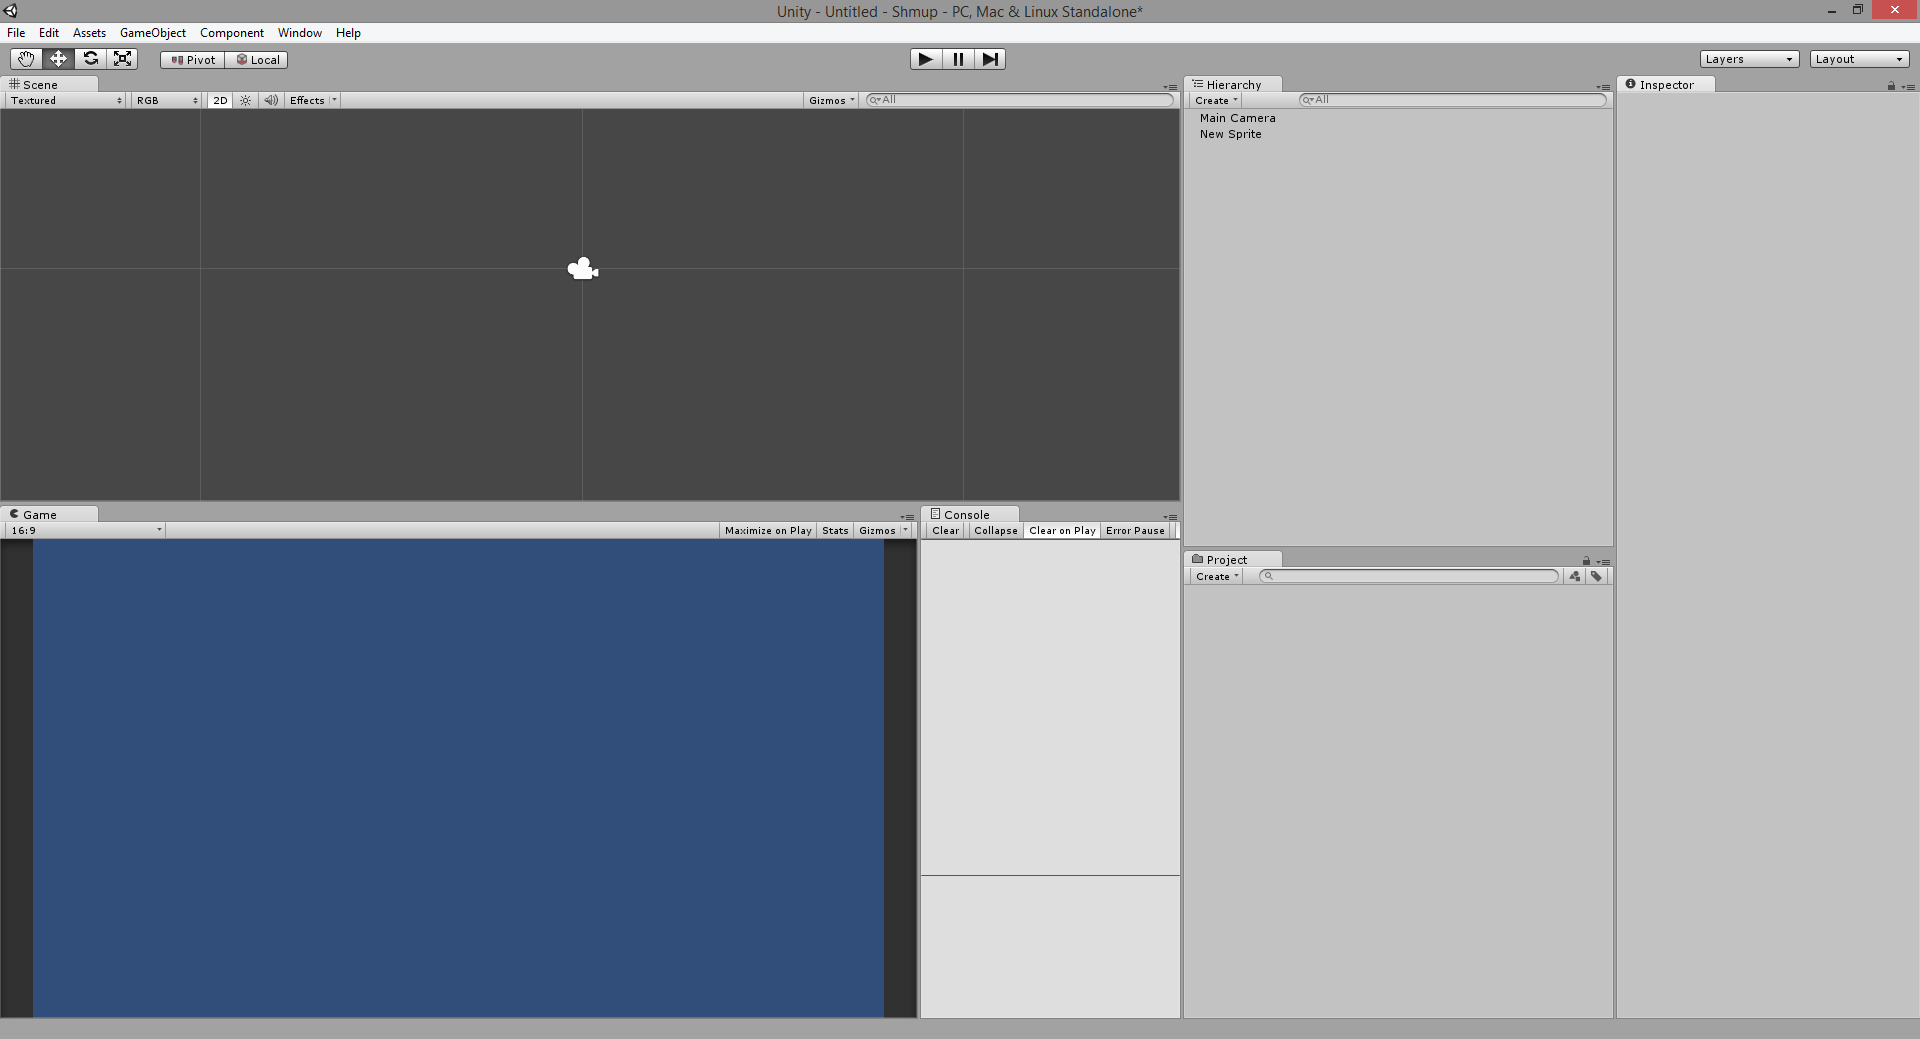
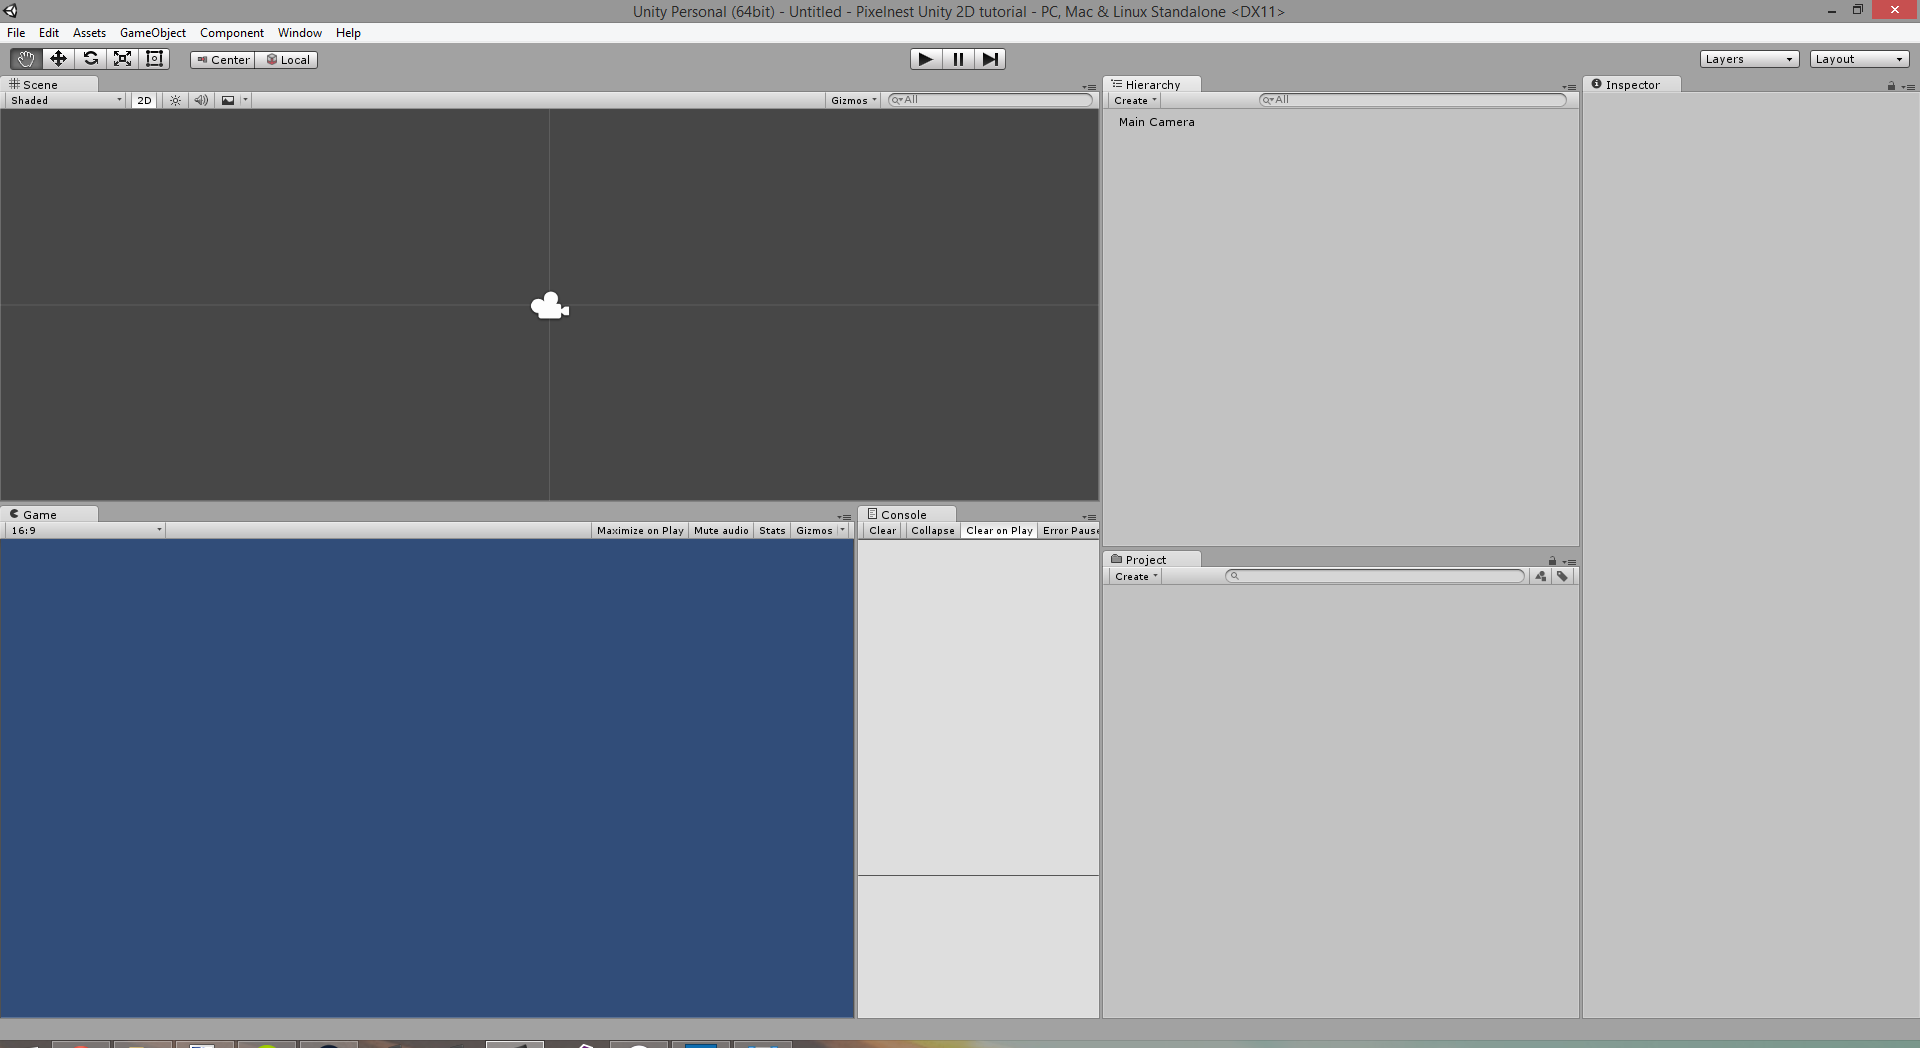
Tutorial: Chapter 1 Unity 5 migration

Changed region(s): [[0.0, 0.0, 1.0, 1.0], [0.0, 0.0308, 0.1875, 0.1232], [0.2812, 0.2464, 0.3125, 0.308]]

diff --git a/tutorials/2d-game-unity/install-and-scene/index.md b/tutorials/2d-game-unity/install-and-scene/index.md
@@ -37,14 +37,14 @@ Unity is bundled with MonoDevelop (4.0.1 as of today) to edit code.
 
 If you are on Windows you can (and should) use an alternative:
 
-* [Visual Studio 2013 Desktop (C#)][vs_download_link] for Windows
+* [Visual Studio Community 2013][vs_download_link] for Windows
 
 Likewise: download and install, it's simple as everything is bundled, though it might take a little time. Then, in the Unity preferences, change your default editor to Visual Studio.
 
 [ ![Change the preferences][unity_prefs_vs_url] ][unity_prefs_vs_url]
 
 <md-warning>
-_Good to know_: It's not possible to use the Visual Studio 2013 Express debugger with Unity. You need to have a _Pro_ version of Visual Studio AND to buy the plugin [UnityVS][unityvs_link]. With the Express version, you will have a better code editor, but the lack of a debugger may be critical.
+_Good to know_: It's possible to use the Visual Studio 2013 debugger with Unity. You need to download and install the [UnityVS][unityvs_link] plugin. Simply follow their [documentation][unityvs_doc] to add the UnityVS to your Unity project (you need to do this for every project).
 </md-warning>
 
 ### Mac OS X
@@ -71,15 +71,17 @@ Here are some other resources that we find interesting and that should complete 
 
 # The first scene
 
+Let's start Unity. First thing you will, after a short splashscreen, is the project manager dialog.
+
 ## Create a new project
 
-Go to file, then create a new project. Do not check any standard package for now. You can re-import them later if you want, but at first it will just confuse you.
+Create a new project with the name and location you wish.
 
 [ ![Create a new Unity project][unity_create_project] ][unity_create_project]
 
-Select the **2D** settings. Like before, you can change this flag in the project settings later.
+Select the **2D** settings. You can change this flag in the project settings later.
 
-_Do not worry about the name_. The product name is defined in the options and changing the whole project name only consists in renaming the folder.
+_Do not worry about the name_. The final product name is defined in the options (Player settings)..
 
 ## Prepare the project
 
@@ -131,11 +133,9 @@ I guess it's pretty clear. See if you want to split musics in another folder.
 
 All the code goes here. We use this folder as the equivalent of a root folder in a C# project.
 
-### Textures
+### Sprites
 
-Textures are sprites and images of your game. In a 2D project, you could rename this folder to "Sprites".
-
-It doesn't really matter in a 2D project, but by keeping the name "Textures", Unity will recognize it and automate some tasks. If you want some informations about this topic, you can read [this](http://answers.unity3d.com/questions/172384/importing-models.html) or [this](http://docs.unity3d.com/Documentation/Components/class-Mesh.html).
+Sprites are the images of your game. In a 2D project, sprites are textures that can be used in the 2D tools.
 
 <br />
 <md-note>
@@ -173,14 +173,13 @@ By default, a new scene is created with a default ``Main Camera``. Keep it.
 For the moment, you will need to create these empty objects :
 
 - ``Scripts``: We will add our global scripts here. We use this object to attach the scripts that are not related to an object. For example, we will have a "Game" manager script attached to it.
-- ``Render``: Move the camera here. We also put the lights objects inside this one.
 - ``Level``
 
 In the ``Level`` object, add three empty children :
 
-- ``0 - Background``
-- ``1 - Middleground``
-- ``2 - Foreground``
+- ``Background``
+- ``Middleground``
+- ``Foreground``
 
 Save the scene in the "Scenes" folder. Call it how you want (what about "Stage1"?).
 
@@ -189,7 +188,7 @@ You should have:
 [ ![Your first scene][unity_first_scene] ][unity_first_scene]
 
 <md-tip>
-_Tip_: By default, a game object is bounded to its parent position. <br /><br />This behavior creates a nice side-effect for a camera game object: if a camera is the child of an object, it will track its parent position automatically. If the camera is at the root of the scene or inside an empty game object, the view is fixed. However, if you put the camera inside a moving game object, the camera will follow this object on the scene. <br /><br />Nonetheless, for our game, we want to keep the camera fixed and this is why we put it inside a `Render` empty game object. But remember this property of a camera object, it can be handy. <br />We will cover this topic a bit longer in the "Parallax Scrolling" chapter.
+_Tip_: a game object is bounded to its parent position. <br /><br />This behavior creates a nice side-effect for a camera game object: if a camera is the child of an object, it will track its parent position automatically. If the camera is at the root of the scene or inside an empty game object, the view is fixed. However, if you put the camera inside a moving game object, the camera will follow this object on the scene. <br />This is a simple way to have the camera following the player, for example.
 </md-tip>
 
 # Next step
@@ -208,11 +207,12 @@ We have just created the basic structure of our game. In the next step we will s
 [unity_create_empty]: ./-img/unity_create_empty.png
 [unity_first_scene]: ./-img/first_scene.png
 
-[unity_download_link]: http://unity3d.com/unity/download "Download Unity"
-[vs_download_link]: http://www.microsoft.com/visualstudio/eng/downloads#d-2013-express "Download Visual Studio"
+[unity_download_link]: http://unity3d.com/get-unity/download?ref=personal "Download Unity"
+[vs_download_link]: https://www.visualstudio.com/en-us/products/visual-studio-community-vs.aspx "Download Visual Studio"
 [md_link]: http://monodevelop.com/ "MonoDevelop"
 [xs_link]: http://xamarin.com/studio "Xamarin Studio"
 [unityvs_link]: http://unityvs.com/
+[unityvs_doc]: https://msdn.microsoft.com/en-us/library/dn940025(v=vs.120).aspx
 
 [unity_videos_link]: http://unity3d.com/learn/tutorials/modules/beginner/editor "Unity Editor Tutorials"
 [unitypatterns_link]: http://unitypatterns.com/ "Unity Patterns"

diff --git a/tutorials/2d-game-unity/index.md b/tutorials/2d-game-unity/index.md
@@ -13,7 +13,7 @@ links:
   next: ./table-of-contents
 ---
 
-Using the brand new **Unity** native 2D tools, you will learn how to make a small "Shoot'Em Up" (abbreviated to _shmup_ thereafter) with this tutorial.
+Using the **Unity** native 2D tools, you will learn how to make a small "Shoot'Em Up" (abbreviated to _shmup_ thereafter) with this tutorial.
 
 The result will be a lot like this demo:
 
@@ -31,7 +31,7 @@ The assets, gameplay and original idea come from the game [The Great Paper Adven
 
 [Unity3D][unity_link] is a popular and complete solution to create multiplatform video games. This tutorial assumes that you are _at least a bit familiar_ with a programming language. Knowing the tools and the engine is a _plus_, but is not necessary.
 
-This tutorial is made with the Unity 4.3 **FREE** version.
+This tutorial is made with the Unity 5 **Personal Edition** (free) version.
 
 [ ![Unity][unity_logo_url] ][unity_download_link]
 
